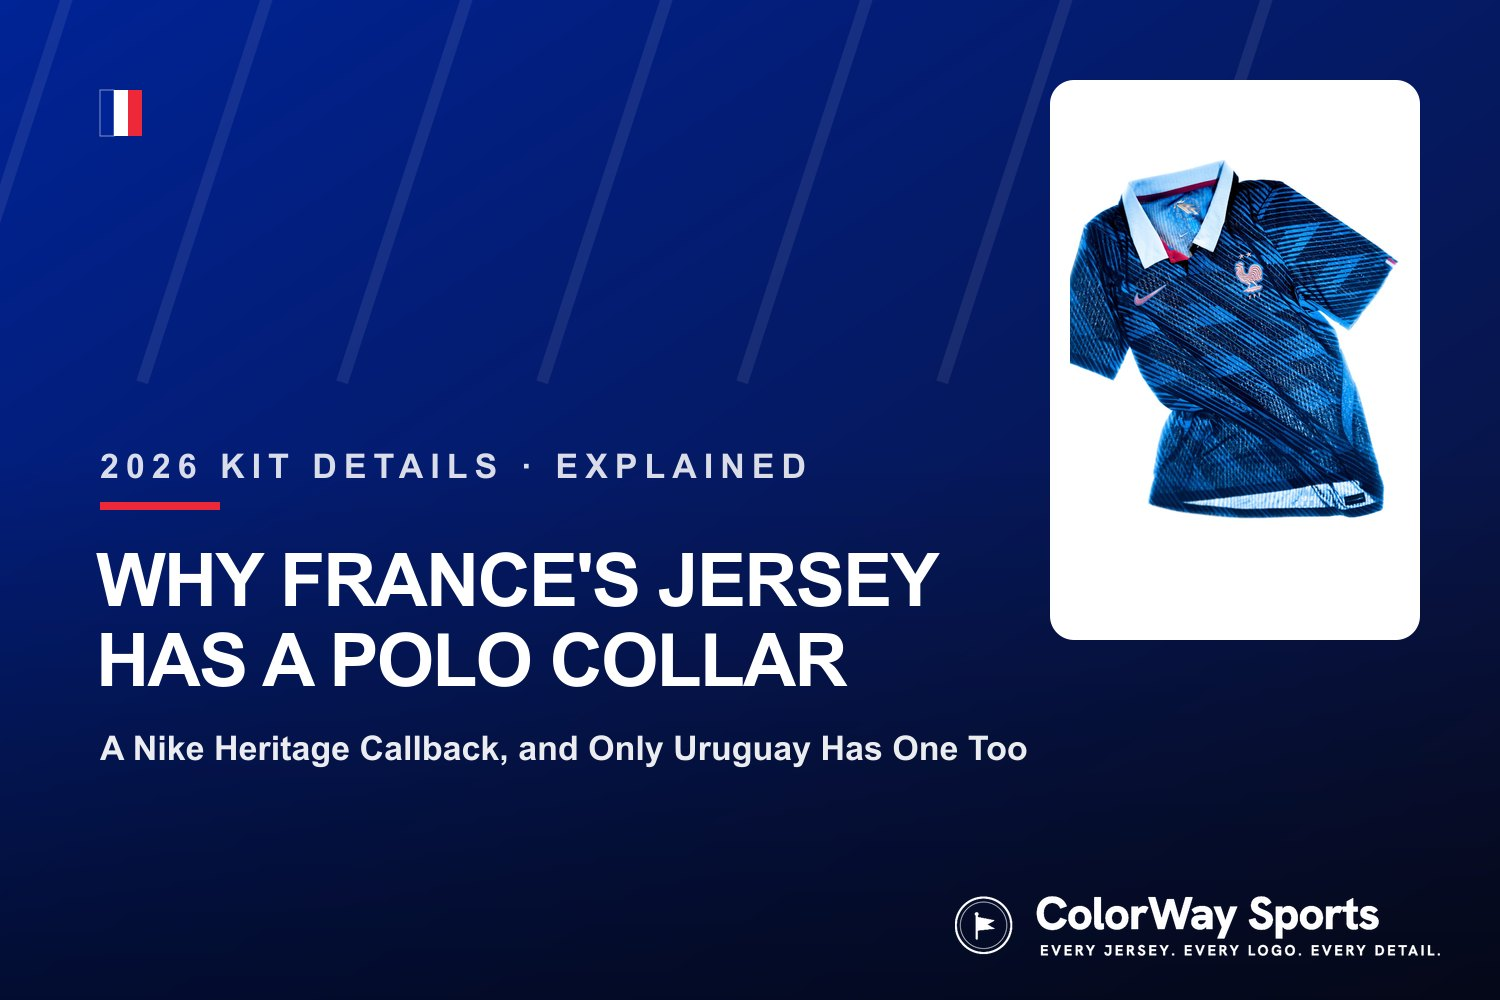
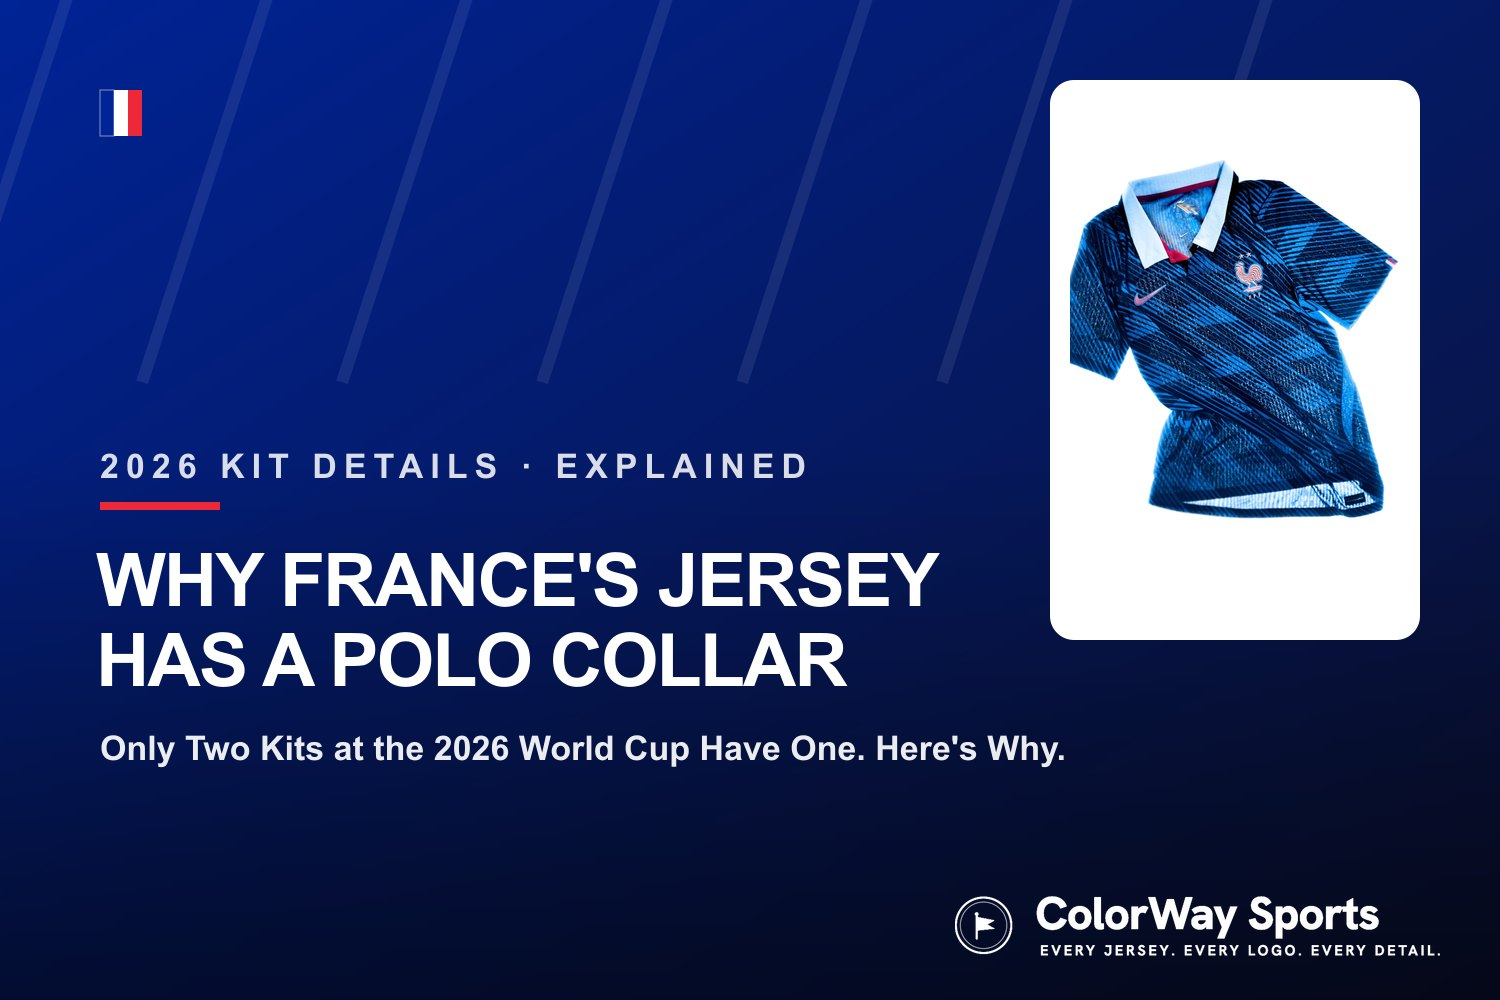
France collar post: cover-only (drop in-post hero), sharper SEO cover subtitle

Changed region(s): [[0.0613, 0.713, 0.7053, 0.775]]

diff --git a/content/posts/france-polo-collar-2026-world-cup-jersey.md b/content/posts/france-polo-collar-2026-world-cup-jersey.md
@@ -13,10 +13,6 @@ coverImageFit: "cover"
 homepageOrder: 4
 ---
 
-<div style="margin: 0 0 1.5em;">
-  <img src="/images/posts/france-polo-collar-cover.jpg" alt="Why France's 2026 World Cup jersey has a white polo collar, with the deep blue Nike home shirt and its heritage collar shown on a ColorWay Sports branded cover" style="width: 100%; border-radius: 10px; display: block;" />
-</div>
-
 The **France 2026 FIFA World Cup home jersey has a white polo collar**, sitting on top of the deep blue Nike shirt with the gold rooster crest. If you're here because you noticed it during a broadcast and asked *"why does France have a collar on their jersey?"* — the short answer is that the polo collar is a deliberate Nike design callback to the French national team's earliest heritage identity, and France is one of only two nations at the 2026 World Cup wearing a polo collar on their first-choice home shirt. The other one is Uruguay.
 
 Below, the full context: why the collar is on there, the story behind France's polo collar tradition, which other 2026 kits have collar treatments (and which don't), and every FAQ we could think of on the search-heavy angles around this one specific design choice.
